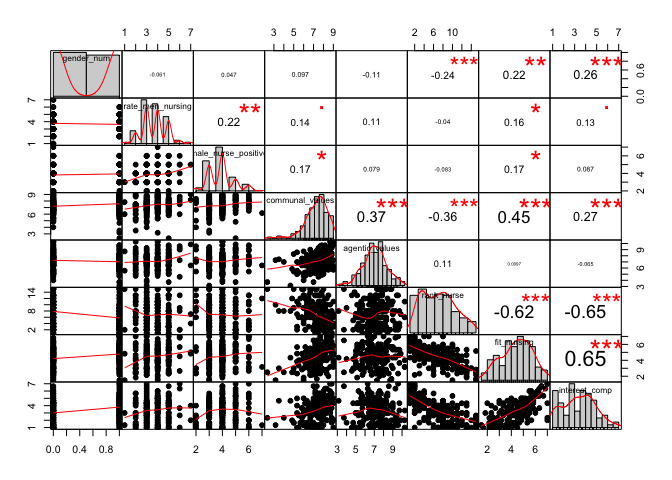
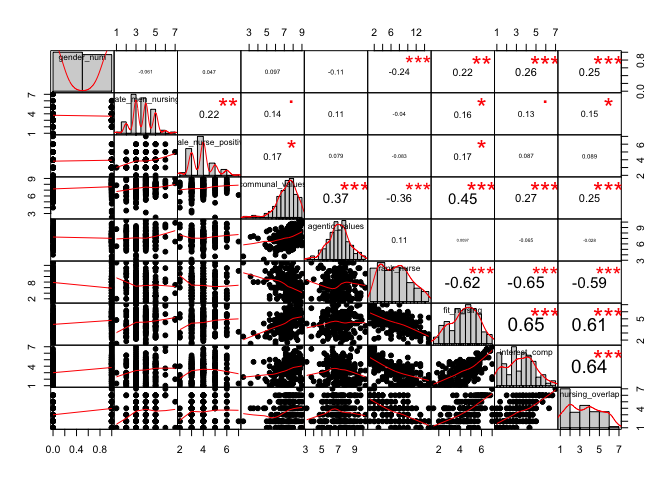
added stuff on nursing overlap

diff --git a/Analyses_nursingpilot_oct2016.md b/Analyses_nursingpilot_oct2016.md
@@ -15,14 +15,15 @@ SUMMARY
 
 -   Sample of 192 men and women after selecting only heterosexual people
 -   GOAL: select DVS, refine predictions
--   In this pilot, we tried out 3 measures of "interest"
+-   In this pilot, we tried out 4 measures of "interest"
     -   A self-report fit measure we made up (6 items)
     -   A 3-item interest measure we have use previously
     -   A measure of ranking nursing against other jobs
+    -   measure of self-nursing overlap
 -   The New FIT measure shows great intercorrelations, so all items seem reliable
--   Fit, interest and Rank of nursing show predicted gender differences
--   All three relate to communal values
--   For men, Fit and interest but not rank relate significantly to rate of men moving into nursing, maybe we should not select rank as a measure
+-   Fit, interest, overlap and Rank of nursing show predicted gender differences
+-   All 4 relate to communal values
+-   For men, Fit, interest, overlap, but not rank relate significantly to rate of men moving into nursing, maybe we should not select rank as a measure then!!!
 -   Ran interactions for men predicting interest and fit from "rate of men moving into nursing" \* "communal values"
     -   Seems like both independently have an effect
     -   interactions are small-ish and ns. They are in the wrong direction for FIT?
@@ -135,27 +136,29 @@ I display these in different ways NOTES:
 -   We get gender differences in all three FIT, interest and rank
 -   interestingly we don't get gender differences in communal values???
 
-    |                    gen| der\_num rat | e\_men\_nursing mal | e\_nurse\_positive com | munal\_values age | ntic\_values ran | k\_nurse fit | \_nursing int | erest\_comp |
-    |----------------------:|--------------|---------------------|------------------------|-------------------|------------------|--------------|---------------|:------------|
-    |            gender\_num| 1.0000000    | -0.0612814          | 0.0472682              | 0.0965309         | -0.1084806       | -0.2380275   | 0.2219109     | 0.2575104   |
-    |     rate\_men\_nursing| -0.0612814   | 1.0000000           | 0.2205480              | 0.1395007         | 0.1081959        | -0.0399454   | 0.1624604     | 0.1250158   |
-    |  male\_nurse\_positive| 0.0472682    | 0.2205480           | 1.0000000              | 0.1727595         | 0.0791551        | -0.0831982   | 0.1671681     | 0.0872488   |
-    |       communal\_values| 0.0965309    | 0.1395007           | 0.1727595              | 1.0000000         | 0.3701255        | -0.3568348   | 0.4482102     | 0.2664495   |
-    |        agentic\_values| -0.1084806   | 0.1081959           | 0.0791551              | 0.3701255         | 1.0000000        | 0.1101166    | 0.0097131     | -0.0649606  |
-    |            rank\_nurse| -0.2380275   | -0.0399454          | -0.0831982             | -0.3568348        | 0.1101166        | 1.0000000    | -0.6184070    | -0.6514257  |
-    |           fit\_nursing| 0.2219109    | 0.1624604           | 0.1671681              | 0.4482102         | 0.0097131        | -0.6184070   | 1.0000000     | 0.6490603   |
-    |         interest\_comp| 0.2575104    | 0.1250158           | 0.0872488              | 0.2664495         | -0.0649606       | -0.6514257   | 0.6490603     | 1.0000000   |
+    |                    gen| der\_num rat | e\_men\_nursing mal | e\_nurse\_positive com | munal\_values age | ntic\_values ran | k\_nurse fit | \_nursing int | erest\_comp nur | sing\_overlap |
+    |----------------------:|--------------|---------------------|------------------------|-------------------|------------------|--------------|---------------|-----------------|:--------------|
+    |            gender\_num| 1.0000000    | -0.0612814          | 0.0472682              | 0.0965309         | -0.1084806       | -0.2380275   | 0.2219109     | 0.2575104       | 0.2491856     |
+    |     rate\_men\_nursing| -0.0612814   | 1.0000000           | 0.2205480              | 0.1395007         | 0.1081959        | -0.0399454   | 0.1624604     | 0.1250158       | 0.1450112     |
+    |  male\_nurse\_positive| 0.0472682    | 0.2205480           | 1.0000000              | 0.1727595         | 0.0791551        | -0.0831982   | 0.1671681     | 0.0872488       | 0.0888332     |
+    |       communal\_values| 0.0965309    | 0.1395007           | 0.1727595              | 1.0000000         | 0.3701255        | -0.3568348   | 0.4482102     | 0.2664495       | 0.2499670     |
+    |        agentic\_values| -0.1084806   | 0.1081959           | 0.0791551              | 0.3701255         | 1.0000000        | 0.1101166    | 0.0097131     | -0.0649606      | -0.0282813    |
+    |            rank\_nurse| -0.2380275   | -0.0399454          | -0.0831982             | -0.3568348        | 0.1101166        | 1.0000000    | -0.6184070    | -0.6514257      | -0.5873606    |
+    |           fit\_nursing| 0.2219109    | 0.1624604           | 0.1671681              | 0.4482102         | 0.0097131        | -0.6184070   | 1.0000000     | 0.6490603       | 0.6056745     |
+    |         interest\_comp| 0.2575104    | 0.1250158           | 0.0872488              | 0.2664495         | -0.0649606       | -0.6514257   | 0.6490603     | 1.0000000       | 0.6395105     |
+    |       nursing\_overlap| 0.2491856    | 0.1450112           | 0.0888332              | 0.2499670         | -0.0282813       | -0.5873606   | 0.6056745     | 0.6395105       | 1.0000000     |
 
-    |                    gen| der\_num rat | e\_men\_nursing mal | e\_nurse\_positive com | munal\_values age | ntic\_values ran | k\_nurse fit | \_nursing int | erest\_comp |
-    |----------------------:|--------------|---------------------|------------------------|-------------------|------------------|--------------|---------------|:------------|
-    |            gender\_num| NA           | 0.3984520           | 0.5150110              | 0.1828769         | 0.1341957        | 0.0008855    | 0.0019783     | 0.0003111   |
-    |     rate\_men\_nursing| 0.3984520    | NA                  | 0.0021122              | 0.0536313         | 0.1352265        | 0.5822477    | 0.0243605     | 0.0840343   |
-    |  male\_nurse\_positive| 0.5150110    | 0.0021122           | NA                     | 0.0165643         | 0.2751163        | 0.2512614    | 0.0204735     | 0.2288384   |
-    |       communal\_values| 0.1828769    | 0.0536313           | 0.0165643              | NA                | 0.0000001        | 0.0000004    | 0.0000000     | 0.0001872   |
-    |        agentic\_values| 0.1341957    | 0.1352265           | 0.2751163              | 0.0000001         | NA               | 0.1283894    | 0.8936291     | 0.3706866   |
-    |            rank\_nurse| 0.0008855    | 0.5822477           | 0.2512614              | 0.0000004         | 0.1283894        | NA           | 0.0000000     | 0.0000000   |
-    |           fit\_nursing| 0.0019783    | 0.0243605           | 0.0204735              | 0.0000000         | 0.8936291        | 0.0000000    | NA            | 0.0000000   |
-    |         interest\_comp| 0.0003111    | 0.0840343           | 0.2288384              | 0.0001872         | 0.3706866        | 0.0000000    | 0.0000000     | NA          |
+    |                    gen| der\_num rat | e\_men\_nursing mal | e\_nurse\_positive com | munal\_values age | ntic\_values ran | k\_nurse fit | \_nursing int | erest\_comp nur | sing\_overlap |
+    |----------------------:|--------------|---------------------|------------------------|-------------------|------------------|--------------|---------------|-----------------|:--------------|
+    |            gender\_num| NA           | 0.3984520           | 0.5150110              | 0.1828769         | 0.1341957        | 0.0008855    | 0.0019783     | 0.0003111       | 0.0004914     |
+    |     rate\_men\_nursing| 0.3984520    | NA                  | 0.0021122              | 0.0536313         | 0.1352265        | 0.5822477    | 0.0243605     | 0.0840343       | 0.0447674     |
+    |  male\_nurse\_positive| 0.5150110    | 0.0021122           | NA                     | 0.0165643         | 0.2751163        | 0.2512614    | 0.0204735     | 0.2288384       | 0.2204640     |
+    |       communal\_values| 0.1828769    | 0.0536313           | 0.0165643              | NA                | 0.0000001        | 0.0000004    | 0.0000000     | 0.0001872       | 0.0004710     |
+    |        agentic\_values| 0.1341957    | 0.1352265           | 0.2751163              | 0.0000001         | NA               | 0.1283894    | 0.8936291     | 0.3706866       | 0.6969829     |
+    |            rank\_nurse| 0.0008855    | 0.5822477           | 0.2512614              | 0.0000004         | 0.1283894        | NA           | 0.0000000     | 0.0000000       | 0.0000000     |
+    |           fit\_nursing| 0.0019783    | 0.0243605           | 0.0204735              | 0.0000000         | 0.8936291        | 0.0000000    | NA            | 0.0000000       | 0.0000000     |
+    |         interest\_comp| 0.0003111    | 0.0840343           | 0.2288384              | 0.0001872         | 0.3706866        | 0.0000000    | 0.0000000     | NA              | 0.0000000     |
+    |       nursing\_overlap| 0.0004914    | 0.0447674           | 0.2204640              | 0.0004710         | 0.6969829        | 0.0000000    | 0.0000000     | 0.0000000       | NA            |
 
 ![](Analyses_nursingpilot_oct2016_files/figure-markdown_github/unnamed-chunk-6-1.png)
 
@@ -189,6 +192,14 @@ I display these in different ways NOTES:
 | agentic\_values       | interest\_comp        |  -0.0649606|  0.3706866|
 | rank\_nurse           | interest\_comp        |  -0.6514257|  0.0000000|
 | fit\_nursing          | interest\_comp        |   0.6490603|  0.0000000|
+| gender\_num           | nursing\_overlap      |   0.2491856|  0.0004914|
+| rate\_men\_nursing    | nursing\_overlap      |   0.1450112|  0.0447674|
+| male\_nurse\_positive | nursing\_overlap      |   0.0888332|  0.2204640|
+| communal\_values      | nursing\_overlap      |   0.2499670|  0.0004710|
+| agentic\_values       | nursing\_overlap      |  -0.0282813|  0.6969829|
+| rank\_nurse           | nursing\_overlap      |  -0.5873606|  0.0000000|
+| fit\_nursing          | nursing\_overlap      |   0.6056745|  0.0000000|
+| interest\_comp        | nursing\_overlap      |   0.6395105|  0.0000000|
 
 Correlations JUST FOR MEN!
 ==========================
@@ -198,25 +209,27 @@ Correlations JUST FOR MEN!
 -   Seems like RANK won't work well
 -   How positive male nurses are seen is probably not a great measure, it doens't really correlate with things!
 
-    |                    rat| e\_men\_nursing mal | e\_nurse\_positive com | munal\_values age | ntic\_values ran | k\_nurse fit | \_nursing int | erest\_comp |
-    |----------------------:|---------------------|------------------------|-------------------|------------------|--------------|---------------|:------------|
-    |     rate\_men\_nursing| 1.0000000           | 0.2326970              | 0.2478697         | 0.0687668        | -0.1379426   | 0.3303507     | 0.2565778   |
-    |  male\_nurse\_positive| 0.2326970           | 1.0000000              | 0.1659322         | -0.0382632       | -0.0420246   | 0.1302183     | 0.0819289   |
-    |       communal\_values| 0.2478697           | 0.1659322              | 1.0000000         | 0.3276650        | -0.3220410   | 0.3577680     | 0.3182880   |
-    |        agentic\_values| 0.0687668           | -0.0382632             | 0.3276650         | 1.0000000        | 0.1006952    | -0.0170592    | -0.0099438  |
-    |            rank\_nurse| -0.1379426          | -0.0420246             | -0.3220410        | 0.1006952        | 1.0000000    | -0.6682702    | -0.6533786  |
-    |           fit\_nursing| 0.3303507           | 0.1302183              | 0.3577680         | -0.0170592       | -0.6682702   | 1.0000000     | 0.6856524   |
-    |         interest\_comp| 0.2565778           | 0.0819289              | 0.3182880         | -0.0099438       | -0.6533786   | 0.6856524     | 1.0000000   |
+    |                    rat| e\_men\_nursing mal | e\_nurse\_positive com | munal\_values age | ntic\_values ran | k\_nurse fit | \_nursing int | erest\_comp nur | sing\_overlap |
+    |----------------------:|---------------------|------------------------|-------------------|------------------|--------------|---------------|-----------------|:--------------|
+    |     rate\_men\_nursing| 1.0000000           | 0.2326970              | 0.2478697         | 0.0687668        | -0.1379426   | 0.3303507     | 0.2565778       | 0.2532286     |
+    |  male\_nurse\_positive| 0.2326970           | 1.0000000              | 0.1659322         | -0.0382632       | -0.0420246   | 0.1302183     | 0.0819289       | 0.0076918     |
+    |       communal\_values| 0.2478697           | 0.1659322              | 1.0000000         | 0.3276650        | -0.3220410   | 0.3577680     | 0.3182880       | 0.1961048     |
+    |        agentic\_values| 0.0687668           | -0.0382632             | 0.3276650         | 1.0000000        | 0.1006952    | -0.0170592    | -0.0099438      | -0.0626502    |
+    |            rank\_nurse| -0.1379426          | -0.0420246             | -0.3220410        | 0.1006952        | 1.0000000    | -0.6682702    | -0.6533786      | -0.7139428    |
+    |           fit\_nursing| 0.3303507           | 0.1302183              | 0.3577680         | -0.0170592       | -0.6682702   | 1.0000000     | 0.6856524       | 0.6758783     |
+    |         interest\_comp| 0.2565778           | 0.0819289              | 0.3182880         | -0.0099438       | -0.6533786   | 0.6856524     | 1.0000000       | 0.7147575     |
+    |       nursing\_overlap| 0.2532286           | 0.0076918              | 0.1961048         | -0.0626502       | -0.7139428   | 0.6758783     | 0.7147575       | 1.0000000     |
 
-    |                    rat| e\_men\_nursing mal | e\_nurse\_positive com | munal\_values age | ntic\_values ran | k\_nurse fit | \_nursing int | erest\_comp |
-    |----------------------:|---------------------|------------------------|-------------------|------------------|--------------|---------------|:------------|
-    |     rate\_men\_nursing| NA                  | 0.0204594              | 0.0133729         | 0.4988295        | 0.1733244    | 0.0008394     | 0.0103604   |
-    |  male\_nurse\_positive| 0.0204594           | NA                     | 0.1007067         | 0.7069044        | 0.6795980    | 0.1989047     | 0.4201356   |
-    |       communal\_values| 0.0133729           | 0.1007067              | NA                | 0.0009306        | 0.0011515    | 0.0002773     | 0.0013244   |
-    |        agentic\_values| 0.4988295           | 0.7069044              | 0.0009306         | NA               | 0.3213420    | 0.8669034     | 0.9221821   |
-    |            rank\_nurse| 0.1733244           | 0.6795980              | 0.0011515         | 0.3213420        | NA           | 0.0000000     | 0.0000000   |
-    |           fit\_nursing| 0.0008394           | 0.1989047              | 0.0002773         | 0.8669034        | 0.0000000    | NA            | 0.0000000   |
-    |         interest\_comp| 0.0103604           | 0.4201356              | 0.0013244         | 0.9221821        | 0.0000000    | 0.0000000     | NA          |
+    |                    rat| e\_men\_nursing mal | e\_nurse\_positive com | munal\_values age | ntic\_values ran | k\_nurse fit | \_nursing int | erest\_comp nur | sing\_overlap |
+    |----------------------:|---------------------|------------------------|-------------------|------------------|--------------|---------------|-----------------|:--------------|
+    |     rate\_men\_nursing| NA                  | 0.0204594              | 0.0133729         | 0.4988295        | 0.1733244    | 0.0008394     | 0.0103604       | 0.0114402     |
+    |  male\_nurse\_positive| 0.0204594           | NA                     | 0.1007067         | 0.7069044        | 0.6795980    | 0.1989047     | 0.4201356       | 0.9397683     |
+    |       communal\_values| 0.0133729           | 0.1007067              | NA                | 0.0009306        | 0.0011515    | 0.0002773     | 0.0013244       | 0.0517304     |
+    |        agentic\_values| 0.4988295           | 0.7069044              | 0.0009306         | NA               | 0.3213420    | 0.8669034     | 0.9221821       | 0.5378610     |
+    |            rank\_nurse| 0.1733244           | 0.6795980              | 0.0011515         | 0.3213420        | NA           | 0.0000000     | 0.0000000       | 0.0000000     |
+    |           fit\_nursing| 0.0008394           | 0.1989047              | 0.0002773         | 0.8669034        | 0.0000000    | NA            | 0.0000000       | 0.0000000     |
+    |         interest\_comp| 0.0103604           | 0.4201356              | 0.0013244         | 0.9221821        | 0.0000000    | 0.0000000     | NA              | 0.0000000     |
+    |       nursing\_overlap| 0.0114402           | 0.9397683              | 0.0517304         | 0.5378610        | 0.0000000    | 0.0000000     | 0.0000000       | NA            |
 
 ![](Analyses_nursingpilot_oct2016_files/figure-markdown_github/unnamed-chunk-7-1.png)
 
@@ -243,6 +256,13 @@ Correlations JUST FOR MEN!
 | agentic\_values       | interest\_comp        |  -0.0099438|  0.9221821|
 | rank\_nurse           | interest\_comp        |  -0.6533786|  0.0000000|
 | fit\_nursing          | interest\_comp        |   0.6856524|  0.0000000|
+| rate\_men\_nursing    | nursing\_overlap      |   0.2532286|  0.0114402|
+| male\_nurse\_positive | nursing\_overlap      |   0.0076918|  0.9397683|
+| communal\_values      | nursing\_overlap      |   0.1961048|  0.0517304|
+| agentic\_values       | nursing\_overlap      |  -0.0626502|  0.5378610|
+| rank\_nurse           | nursing\_overlap      |  -0.7139428|  0.0000000|
+| fit\_nursing          | nursing\_overlap      |   0.6758783|  0.0000000|
+| interest\_comp        | nursing\_overlap      |   0.7147575|  0.0000000|
 
 Linear Models
 =============
@@ -355,6 +375,62 @@ coef(summary(BregressionHIGH))
     ## rate_men_nursingHIGH                         1.7229240 8.815594e-02
     ## scale(communal_values)                       2.2701955 2.545564e-02
     ## rate_men_nursingHIGH:scale(communal_values)  0.6217952 5.355659e-01
+
+self-nursing overlap
+====================
+
+``` r
+Dregression <- lm (nursing_overlap ~ scale(rate_men_nursing)*scale(communal_values), data=MENONLY)
+
+
+DregressionLOW <- lm (nursing_overlap ~ rate_men_nursingLOW*scale(communal_values), data=MENONLY)
+
+
+DregressionHIGH <- lm (nursing_overlap ~ rate_men_nursingHIGH*scale(communal_values), data=MENONLY)
+
+coef(summary(Dregression)) 
+```
+
+    ##                                                  Estimate Std. Error
+    ## (Intercept)                                     3.1465125  0.1584504
+    ## scale(rate_men_nursing)                         0.3937095  0.1644632
+    ## scale(communal_values)                          0.1844600  0.1632724
+    ## scale(rate_men_nursing):scale(communal_values) -0.1854473  0.1523014
+    ##                                                  t value     Pr(>|t|)
+    ## (Intercept)                                    19.858030 1.390076e-35
+    ## scale(rate_men_nursing)                         2.393906 1.863423e-02
+    ## scale(communal_values)                          1.129768 2.614185e-01
+    ## scale(rate_men_nursing):scale(communal_values) -1.217633 2.263792e-01
+
+``` r
+coef(summary(DregressionLOW))
+```
+
+    ##                                              Estimate Std. Error   t value
+    ## (Intercept)                                 2.7528030  0.2218849 12.406445
+    ## rate_men_nursingLOW                         0.3937095  0.1644632  2.393906
+    ## scale(communal_values)                      0.3699072  0.1989425  1.859367
+    ## rate_men_nursingLOW:scale(communal_values) -0.1854473  0.1523014 -1.217633
+    ##                                                Pr(>|t|)
+    ## (Intercept)                                1.388794e-21
+    ## rate_men_nursingLOW                        1.863423e-02
+    ## scale(communal_values)                     6.607008e-02
+    ## rate_men_nursingLOW:scale(communal_values) 2.263792e-01
+
+``` r
+coef(summary(DregressionHIGH)) 
+```
+
+    ##                                                  Estimate Std. Error
+    ## (Intercept)                                  3.5402220749  0.2346837
+    ## rate_men_nursingHIGH                         0.3937095377  0.1644632
+    ## scale(communal_values)                      -0.0009872734  0.2452123
+    ## rate_men_nursingHIGH:scale(communal_values) -0.1854472581  0.1523014
+    ##                                                  t value     Pr(>|t|)
+    ## (Intercept)                                 15.085078709 5.871384e-27
+    ## rate_men_nursingHIGH                         2.393906234 1.863423e-02
+    ## scale(communal_values)                      -0.004026198 9.967960e-01
+    ## rate_men_nursingHIGH:scale(communal_values) -1.217633309 2.263792e-01
 
 predicting rank
 ===============
